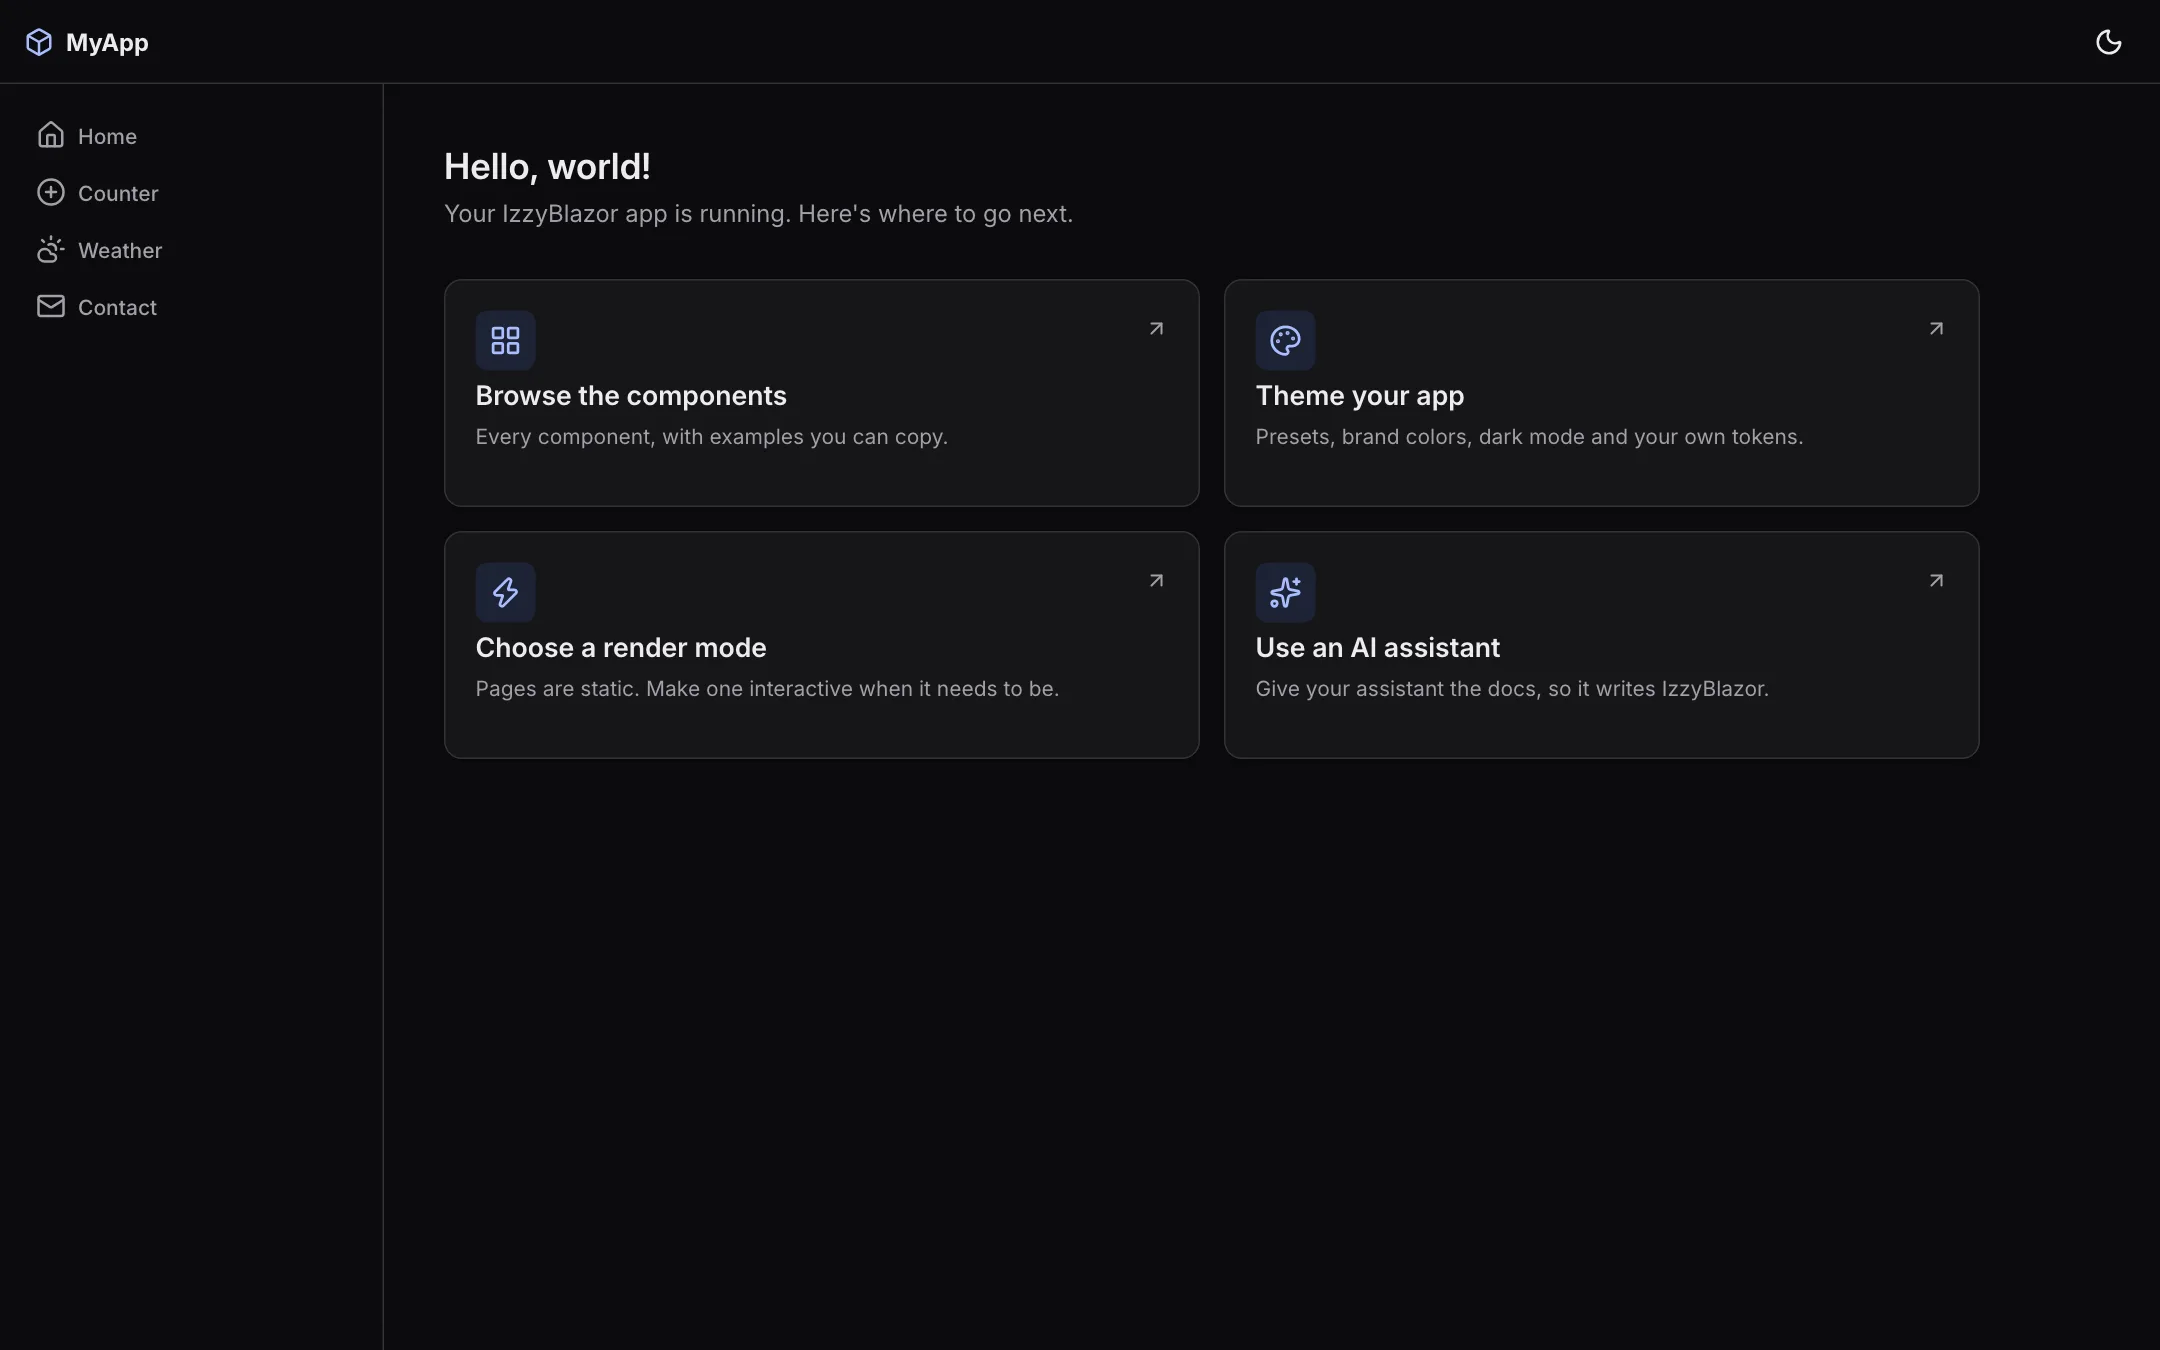
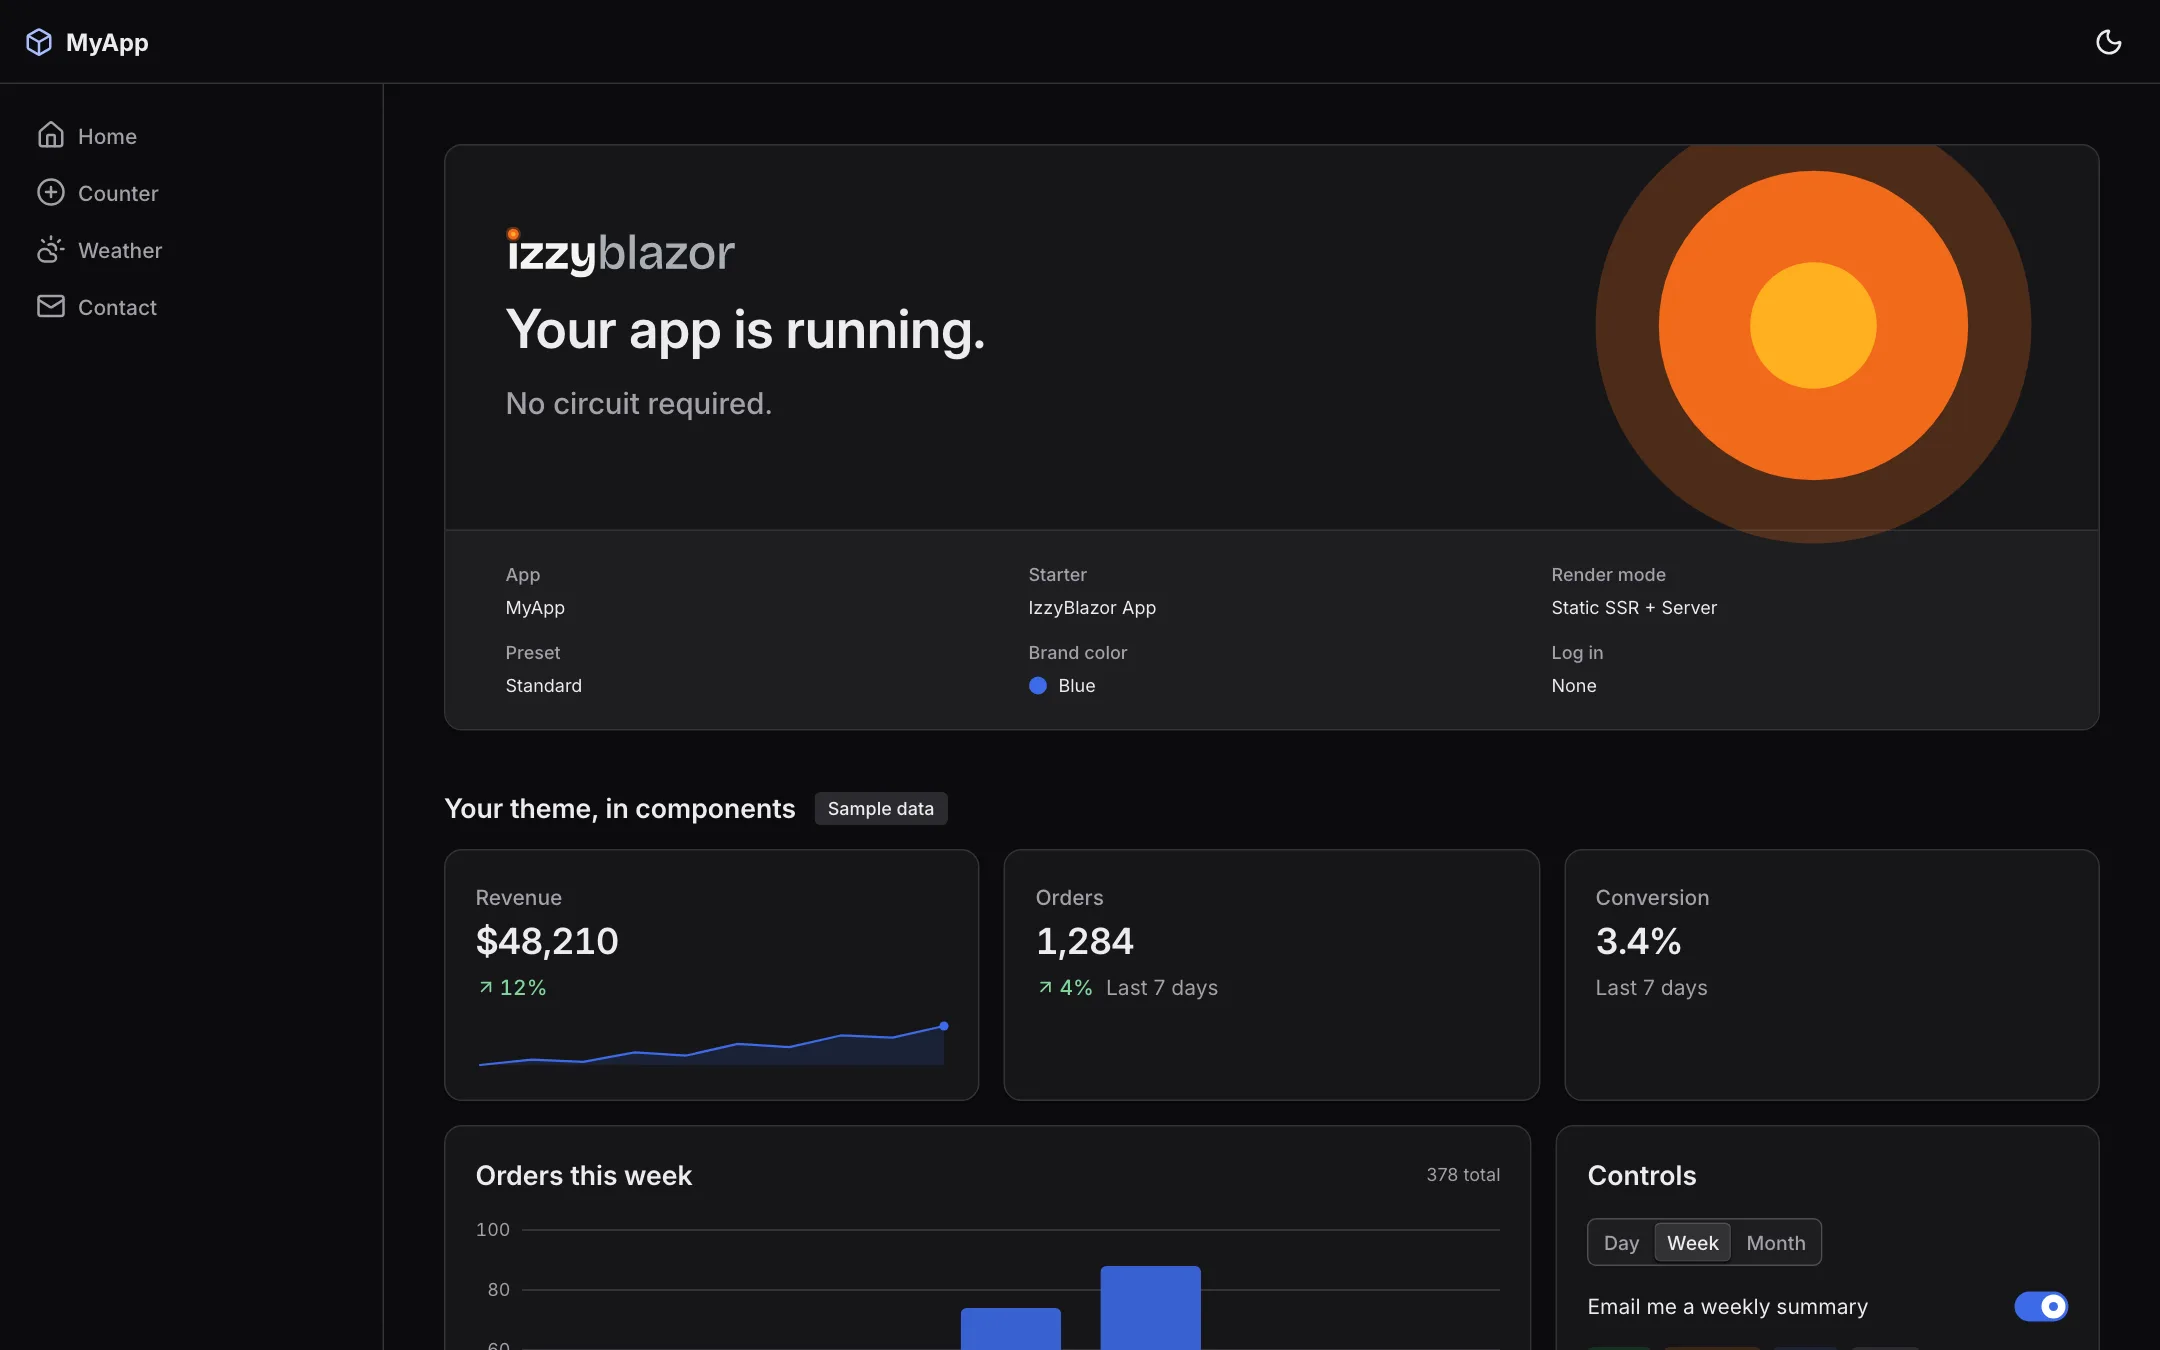
IzzyBlazor App: its home is the welcome page, as the shells' is

diff --git a/tests/IzzyBlazor.Generation.Tests/ClientProjectTests.cs b/tests/IzzyBlazor.Generation.Tests/ClientProjectTests.cs
@@ -23,7 +23,8 @@ public sealed class ClientProjectTests : IDisposable
         Assert.Equal(("Acme/", "Acme.Client/", true), (project.Host, project.Client, project.LayoutInBrowser));
 
         var paths = new List<string>();
-        foreach (var (id, settings) in new[] { ("hero", "HeadingLevel=2"), ("features", ""), ("legal", ""), ("cookies", ""), ("maintenance", "") })
+        // The hero goes under a page's own heading (Weather's); Home is the welcome page, whose heading is inside its opening card.
+        foreach (var (id, settings) in new[] { ("hero", "HeadingLevel=2;Into=Components/Pages/Weather.razor"), ("features", ""), ("legal", ""), ("cookies", ""), ("maintenance", "") })
         {
             var values = settings.Split(';', StringSplitOptions.RemoveEmptyEntries).Select(s => s.Split('=')).ToDictionary(s => s[0], s => s[1]);
             var changes = Generator.Generate(ProjectBuild.Item(id), values, ProjectInfo.FromProject(Path.Combine(_work, "Acme", "Acme.csproj")));

diff --git a/site/IzzyBlazor.Site/Services/TemplateCatalog.cs b/site/IzzyBlazor.Site/Services/TemplateCatalog.cs
@@ -109,7 +109,7 @@ public sealed class TemplateCatalog
         // The starters: taken Nov 21, 2026 from each made as MyApp (artifacts/crm-tools/starter-galleries.sh).
         ["blazor"] =
         [
-            new("home", "Home", "The home page: a greeting and four cards linking to the docs"),
+            new("home", "Home", "The home page: the welcome panel and the app's theme in sample components"),
             new("counter", "Counter", "The counter page"),
             new("weather", "Weather", "The weather page: a table of forecasts that sorts and filters"),
             new("contact", "Contact", "The contact page: details beside a form"),
